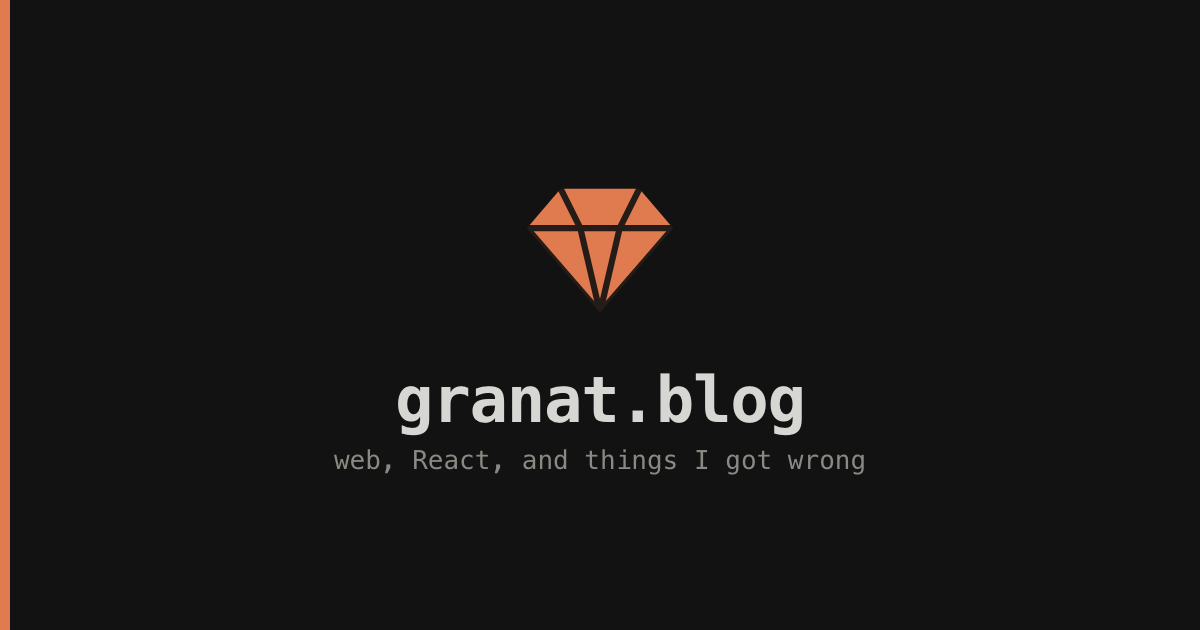
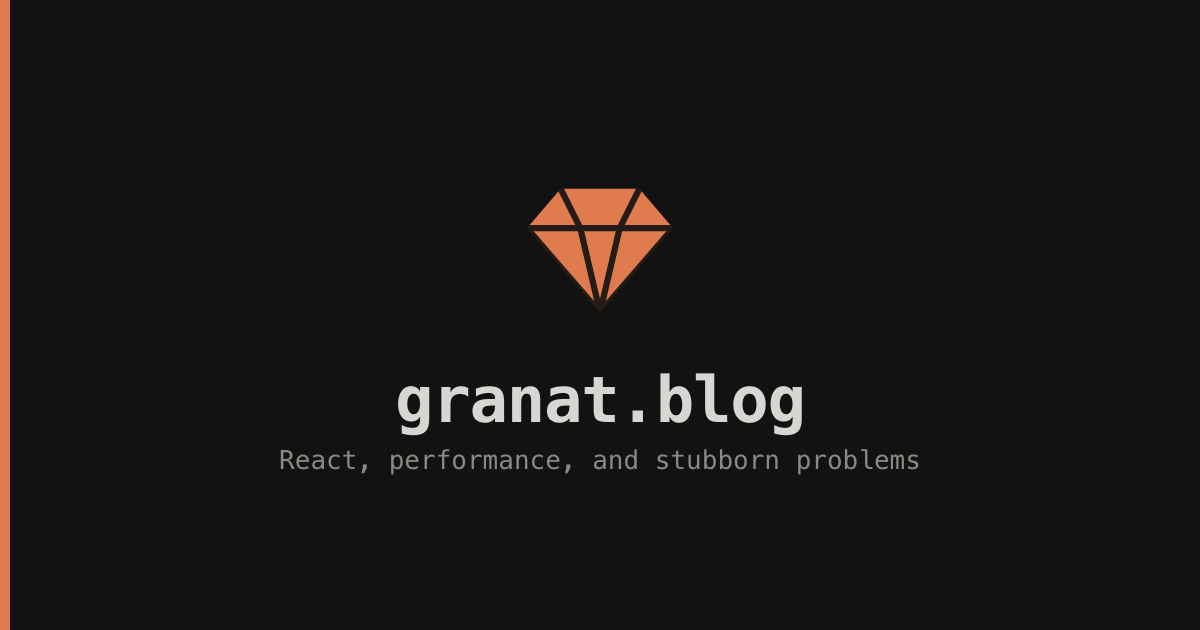
chore: og improvements

Changed region(s): [[0.2158, 0.6937, 0.7708, 0.754]]

diff --git a/layouts/partials/seo.html b/layouts/partials/seo.html
@@ -9,6 +9,12 @@
        title  — page title, then site title
        descr  — front-matter description, then the post's own summary, then
                 the site description
+       ogdesc — front-matter ogDescription, then descr. These are split on
+                purpose: Google's snippet rewards 120-160 characters, while a
+                social preview shows roughly 125 before truncating on mobile.
+                One string can't be ideal for both, so a post that cares can
+                write a tighter one for the card and keep the long one for
+                search.
        image  — front-matter `image`, then the site-wide card from tools/og
      OG image URLs must be absolute, and the file has to be a raster format:
      no crawler renders SVG.
@@ -19,12 +25,33 @@
 {{- else }}{{ with .Summary }}{{ $descr = (. | plainify | chomp | truncate 200) }}
 {{- else }}{{ $descr = site.Params.description }}{{ end }}{{ end }}
 
+{{- /* Taxonomy terms have no source file to carry a description, so build one
+       rather than let every tag page repeat the site blurb verbatim —
+       duplicate descriptions across pages are exactly what a SERP audit
+       flags. */}}
+{{- if and .IsNode .Data.Term }}
+  {{- /* Sized so the longest existing tag still lands inside the 120-160 window
+         a SERP snippet rewards. A much longer tag would overshoot — worth a
+         glance if you ever add one. */}}
+  {{- $descr = printf "Posts tagged #%s — writing by %s on React, web performance, and the stubborn problems underneath ordinary frontend work." .Data.Term site.Params.author }}
+{{- end }}
+
+{{- /* Fall back to the search description, clipped to what a card actually
+       shows. `truncate` breaks on a word, so the auto case still reads as a
+       sentence; a post that wants a hand-written one sets ogDescription. */}}
+{{- $ogdescr := .Params.ogDescription | default ($descr | truncate 120) }}
+
 {{- /* One card for the whole site — the unfurl prints the title beside it, so
        the image is the mark, not the headline. A post can still opt out with
        `image:` in its front matter. */}}
 {{- $image := .Params.image | default "/blog/og/default.png" }}
 
-<title>{{ if .IsHome }}{{ site.Title }}{{ else }}{{ .Title }} · {{ site.Title }}{{ end }}</title>
+{{- /* A post's <title> is the headline alone. Google truncates around 60
+       characters and appends the site name itself, so spending 24 of them on
+       a suffix only buys a cut-off headline. List pages, whose titles are one
+       word, keep a short brand tag. */}}
+{{- $brand := site.Params.brand | default site.Title }}
+<title>{{ if .IsHome }}{{ site.Title }}{{ else if .IsPage }}{{ .Title }}{{ else }}{{ .Title }} · {{ $brand }}{{ end }}</title>
 <link rel="canonical" href="{{ .Permalink }}">
 <meta name="description" content="{{ $descr }}">
 <meta name="author" content="{{ site.Params.author }}">
@@ -36,7 +63,7 @@
 <meta property="og:type" content="{{ cond .IsPage "article" "website" }}">
 <meta property="og:url" content="{{ .Permalink }}">
 <meta property="og:title" content="{{ cond .IsHome site.Title .Title }}">
-<meta property="og:description" content="{{ $descr }}">
+<meta property="og:description" content="{{ $ogdescr }}">
 <meta property="og:image" content="{{ $image | absURL }}">
 <meta property="og:image:width" content="1200">
 <meta property="og:image:height" content="630">
@@ -58,5 +85,5 @@
 <meta name="twitter:creator" content="@{{ strings.TrimPrefix "@" . }}">
 {{- end }}
 <meta name="twitter:title" content="{{ cond .IsHome site.Title .Title }}">
-<meta name="twitter:description" content="{{ $descr }}">
+<meta name="twitter:description" content="{{ $ogdescr }}">
 <meta name="twitter:image" content="{{ $image | absURL }}">

diff --git a/content/posts/2026-07-24-react-arven.md b/content/posts/2026-07-24-react-arven.md
@@ -1,7 +1,8 @@
 ---
 title: "React doesn't need a state management tool, I said. Then I built one."
 date: 2026-07-24
-description: "I still think most apps don't need one. But the other 20% get ugly — so I fixed the three things that make React Context unusable for shared state, in 1.4 kB."
+description: "I still think you don't need one for simple stuff. But for the other cases, I fixed the three things that make React Context unusable for shared state, in 1.4 kB."
+ogDescription: "I still think you don't need one for simple stuff. But for the other cases, I fixed what makes React Context unusable there."
 tags: ["react", "state-management", "performance"]
 aliases: ["/posts/react-arven/"]
 ---

diff --git a/content/_index.md b/content/_index.md
@@ -1,6 +1,6 @@
 ---
 title: "Štěpán Granát"
-description: "Personal site and blog of Štěpán Granát."
+description: "Personal site and blog of Štěpán Granát — a frontend developer writing about React, web performance, and the stubborn problems underneath both."
 ---
 
 ```

diff --git a/content/posts/_index.md b/content/posts/_index.md
@@ -1,4 +1,4 @@
 ---
 title: "Blog"
-description: "Writing by Štěpán Granát."
+description: "Writing by Štěpán Granát on React, web performance, and the stubborn problems that turn up underneath ordinary frontend work."
 ---
